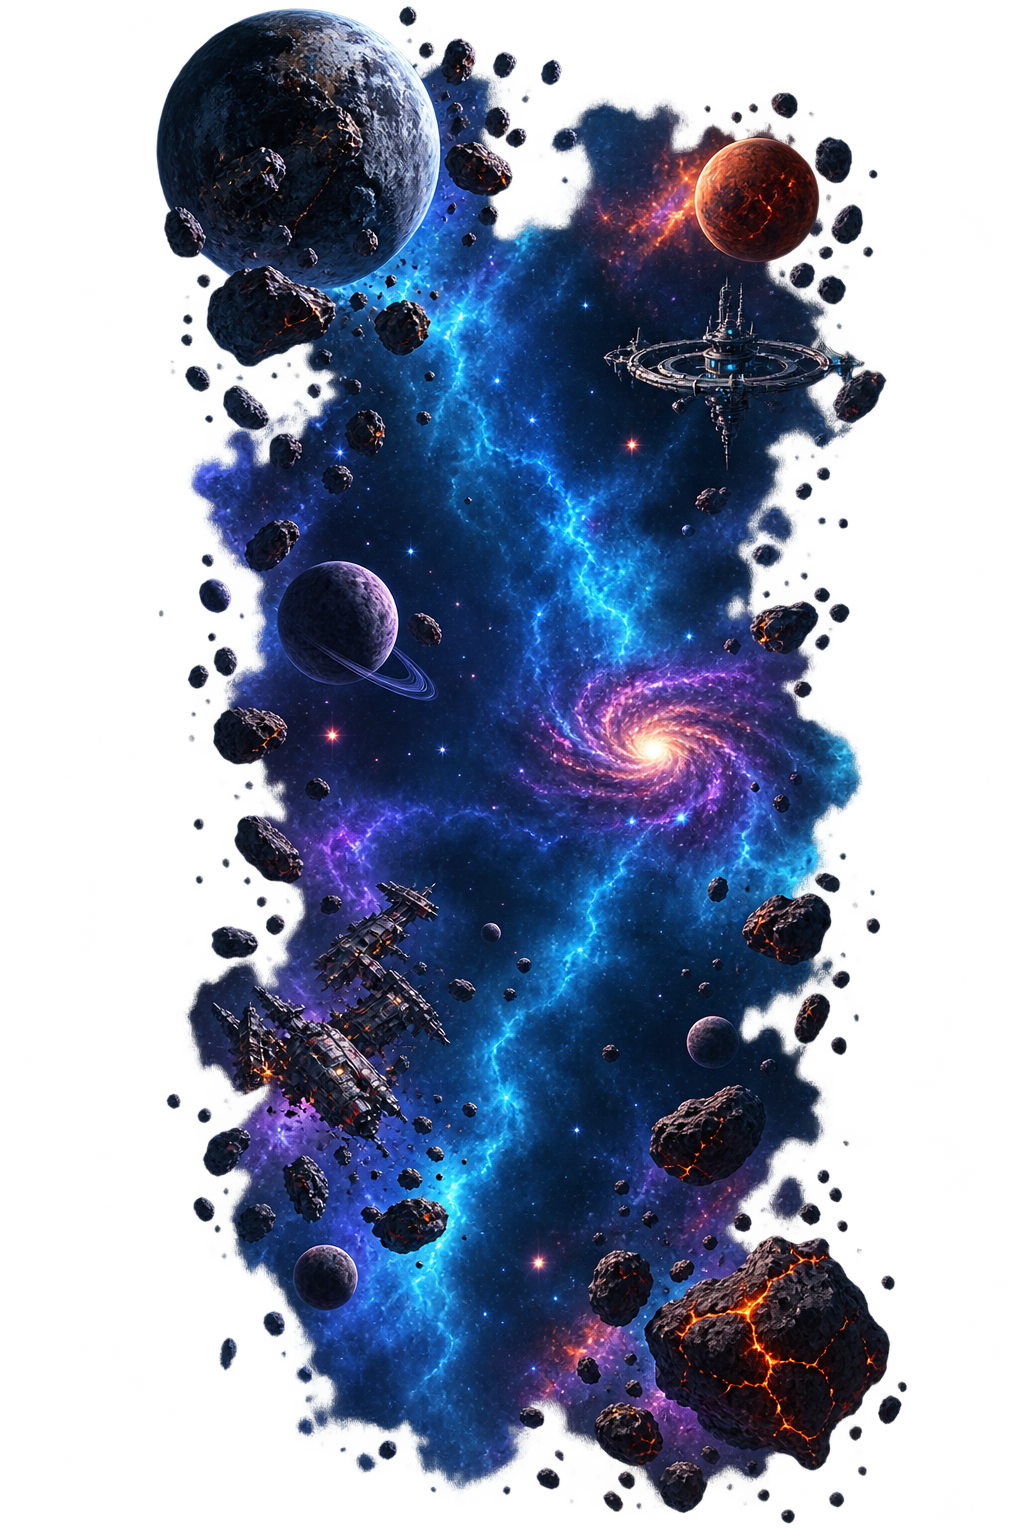
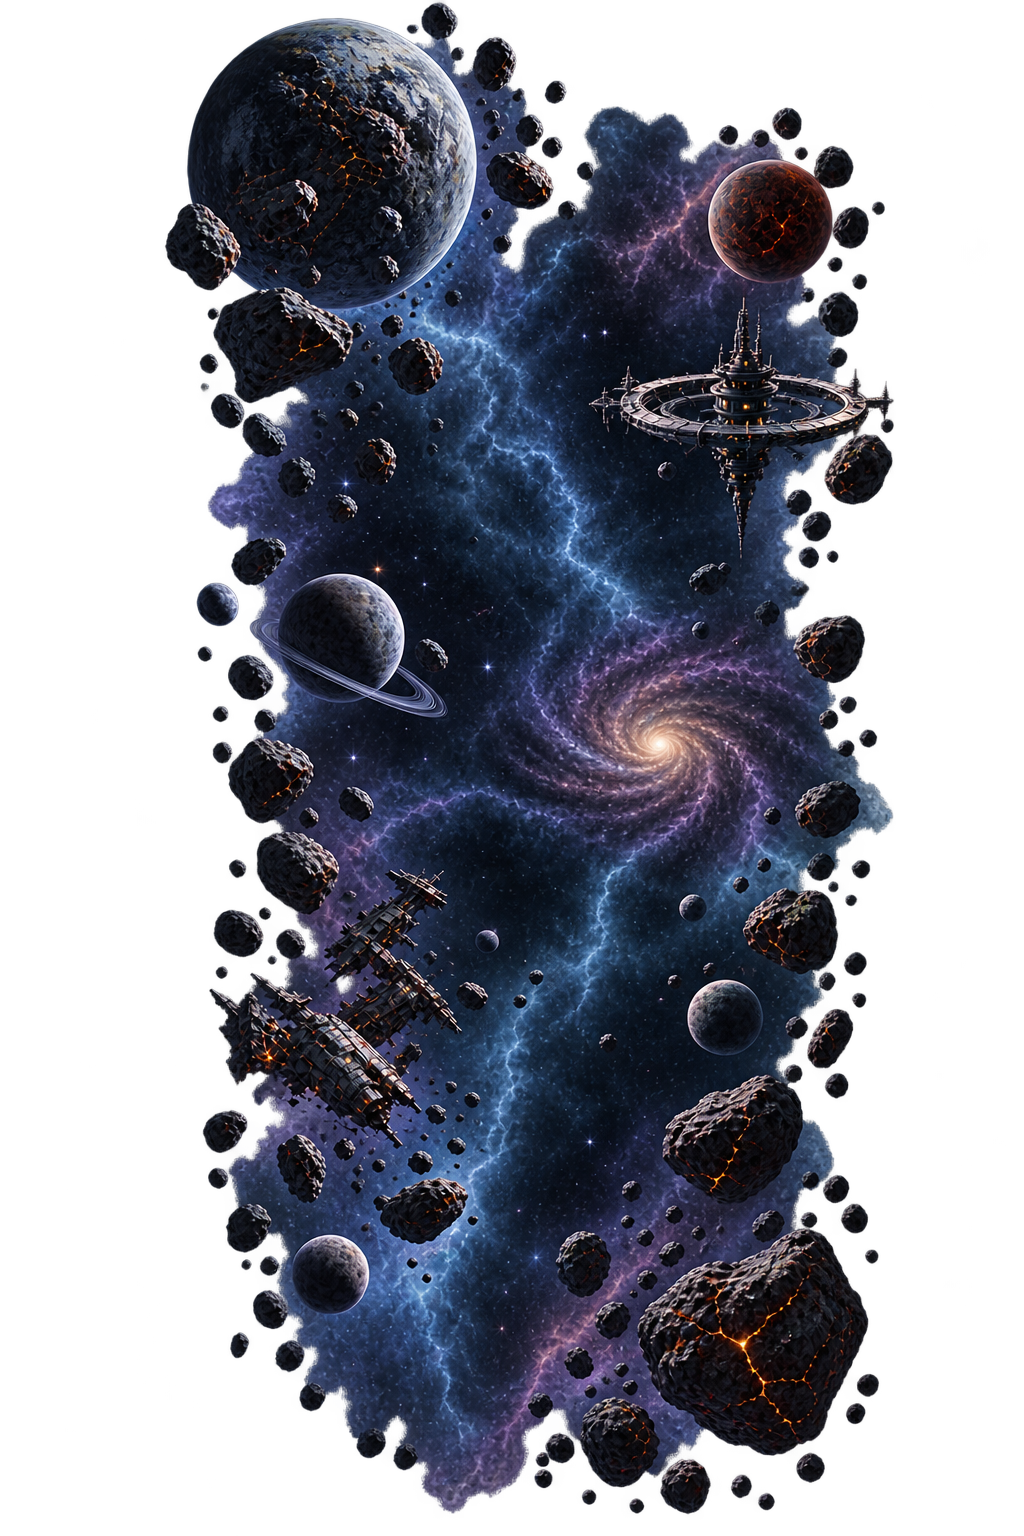
Add mobile resolution option, rescale environment art, resize backgrounds
- Options: RESOLUTION row toggles desktop (640x720) / mobile (360x800),
  persisted via localStorage, applied on reload (canvas aspect ratio wired
  through CSS vars in index.html/main.js).
- Loosen Options menu spacing/fonts specifically for the mobile width so
  rows don't crowd the label against the left arrow.
- Menu: mission-select grid drops to 2 columns under mobile width.
- Rename/rescale environment objects (Blackhole, P-1/2/3) to smaller size
  tiers; regenerate manifest.json.
- Update mission background art.

diff --git a/src/scenes/OptionsScene.js b/src/scenes/OptionsScene.js
@@ -2,6 +2,7 @@ import {
   GAME_WIDTH, GAME_HEIGHT, SHIPS_FALLBACK,
   DIFFICULTY, DIFFICULTY_ORDER,
   INPUT_TYPES,
+  RESOLUTION_PRESETS, RESOLUTION_MODES, CURRENT_RESOLUTION_MODE, setResolutionMode,
 } from '../config.js';
 import Starfield from '../systems/Starfield.js';
 import { ACCENT_HEX, TEXT_HEX, drawBeveledPanel, drawCornerBrackets, buildVerticalMenu } from '../systems/UITheme.js';
@@ -25,13 +26,25 @@ const AUTO_FIRE_DESCRIPTIONS = {
 };
 
 const TEXT_DIM = '#5a8a9a';
-const ROW_WIDTH = 560;
-const ROW_HEIGHT = 64;
-const ROW_GAP = 14;
+// MOBILE's GAME_WIDTH (360) is narrower but its GAME_HEIGHT (800) has more
+// vertical room than DESKTOP's 720 -- IS_MOBILE below spends that extra
+// height on looser row spacing/margins instead of reusing DESKTOP's tighter
+// numbers, which read as cramped on the narrow screen (see report: rows
+// packed edge-to-edge with the label crowding the left arrow).
+const IS_MOBILE = GAME_WIDTH < 500;
+// Wider side margin (80 vs 60) so the panel doesn't run edge-to-edge on the
+// narrow MOBILE width, capped at 560 so DESKTOP is unaffected.
+const ROW_WIDTH = Math.min(560, GAME_WIDTH - 80);
+// Trimmed from the original 64/14 so all 5 rows (now including RESOLUTION)
+// plus the ship preview and BACK button still fit inside DESKTOP's tighter
+// GAME_HEIGHT (720); MOBILE gets its own looser numbers instead of reusing
+// these, since 800 has slack to spare.
+const ROW_HEIGHT = IS_MOBILE ? 62 : 56;
+const ROW_GAP = IS_MOBILE ? 16 : 8;
 
-// Flat settings page -- four arrow-cycle rows (DIFFICULTY / GAMEPLAY /
-// PLAYER SHIP / INPUT): each shows "< VALUE >", tap/click an arrow (or Left/
-// Right when a row has focus) to step through that category's values in
+// Flat settings page -- arrow-cycle rows (DIFFICULTY / GAMEPLAY / PLAYER
+// SHIP / INPUT / RESOLUTION): each shows "< VALUE >", tap/click an arrow (or
+// Left/Right when a row has focus) to step through that category's values in
 // place, wrapping at the ends. A short description sits under each row's
 // value; Player Ship instead gets a persistent big preview of the selected
 // ship below the whole stack.
@@ -107,6 +120,22 @@ export default class OptionsScene extends Phaser.Scene {
         selectedIndex: INPUT_TYPES.indexOf(prefs.inputType),
         onPick: (i) => setPref(this, 'inputType', INPUT_TYPES[i]),
       },
+      {
+        key: 'resolution',
+        label: 'RESOLUTION',
+        valueLabel: RESOLUTION_PRESETS[CURRENT_RESOLUTION_MODE].label,
+        description: 'Switches the game between desktop and mobile (taller, narrower) view. Reloads the page to apply.',
+        length: RESOLUTION_MODES.length,
+        selectedIndex: RESOLUTION_MODES.indexOf(CURRENT_RESOLUTION_MODE),
+        // Resolution is a load-time constant (baked into main.js's Phaser
+        // config), unlike every other row here -- can't just re-render this
+        // scene, the whole page has to reload to rebuild the game at the new
+        // size.
+        onPick: (i) => {
+          setResolutionMode(RESOLUTION_MODES[i]);
+          window.location.reload();
+        },
+      },
     ];
   }
 
@@ -135,33 +164,47 @@ export default class OptionsScene extends Phaser.Scene {
     // Value sits in a fixed-width centered slot flanked by the two arrows --
     // its position never depends on the value string's own width, so a long
     // value (KEYBOARD, AUTO FIRE: ON) can't grow into and overlap an arrow.
+    // Gap between the two arrows shrinks on the narrower MOBILE preset (see
+    // ROW_WIDTH above) so it still leaves the label room on the row's left --
+    // a fixed 190px (fine at the old always-640-wide layout) left almost no
+    // room for the label at MOBILE's width and the two visually collided.
     const rowRight = x + ROW_WIDTH / 2;
+    const arrowGap = IS_MOBILE ? 130 : Math.min(190, ROW_WIDTH - 120);
     const rightArrowX = rowRight - 24;
-    const leftArrowX = rowRight - 24 - 190;
+    const leftArrowX = rowRight - 24 - arrowGap;
     const valueX = (leftArrowX + rightArrowX) / 2;
+    const labelFontSize = IS_MOBILE ? '13px' : '15px';
+    const valueFontSize = IS_MOBILE ? '13px' : '15px';
+    const arrowFontSize = IS_MOBILE ? '15px' : '16px';
 
     const panel = drawBeveledPanel(this, x - ROW_WIDTH / 2, y - ROW_HEIGHT / 2, ROW_WIDTH, ROW_HEIGHT, { chamfer: 8 });
     const label = this.add.text(x - ROW_WIDTH / 2 + 20, y - 16, cat.label, {
-      fontFamily: 'Arial Black, Arial', fontSize: '15px', color: TEXT_HEX,
+      fontFamily: 'Arial Black, Arial', fontSize: labelFontSize, color: TEXT_HEX,
     }).setOrigin(0, 0.5);
 
     const value = this.add.text(valueX, y - 16, cat.valueLabel, {
-      fontFamily: 'Arial', fontSize: '15px', color: TEXT_DIM,
+      fontFamily: 'Arial', fontSize: valueFontSize, color: TEXT_DIM,
     }).setOrigin(0.5);
 
     const leftArrow = this.add.text(leftArrowX, y - 16, '◀', {
-      fontFamily: 'Arial Black, Arial', fontSize: '16px', color: ACCENT_HEX,
-    }).setOrigin(0.5).setInteractive({ useHandCursor: true });
+      fontFamily: 'Arial Black, Arial', fontSize: arrowFontSize, color: ACCENT_HEX,
+    }).setOrigin(0.5);
     const rightArrow = this.add.text(rightArrowX, y - 16, '▶', {
-      fontFamily: 'Arial Black, Arial', fontSize: '16px', color: ACCENT_HEX,
-    }).setOrigin(0.5).setInteractive({ useHandCursor: true });
-    leftArrow.on('pointerdown', () => this.cycle(cat, -1));
-    rightArrow.on('pointerdown', () => this.cycle(cat, 1));
+      fontFamily: 'Arial Black, Arial', fontSize: arrowFontSize, color: ACCENT_HEX,
+    }).setOrigin(0.5);
 
-    const objs = [panel, label, value, leftArrow, rightArrow];
+    const hitSize = 44;
+    const leftHit = this.add.rectangle(leftArrowX, y - 16, hitSize, hitSize, 0xffffff, 0.001)
+      .setInteractive({ useHandCursor: true });
+    const rightHit = this.add.rectangle(rightArrowX, y - 16, hitSize, hitSize, 0xffffff, 0.001)
+      .setInteractive({ useHandCursor: true });
+    leftHit.on('pointerdown', () => this.cycle(cat, -1));
+    rightHit.on('pointerdown', () => this.cycle(cat, 1));
+
+    const objs = [panel, label, value, leftArrow, rightArrow, leftHit, rightHit];
     if (cat.description) {
       const desc = this.add.text(x, y + 14, cat.description, {
-        fontFamily: 'Arial', fontSize: '11px', color: '#7aa8b8', align: 'center', wordWrap: { width: ROW_WIDTH - 40 },
+        fontFamily: 'Arial', fontSize: IS_MOBILE ? '10px' : '11px', color: '#7aa8b8', align: 'center', wordWrap: { width: ROW_WIDTH - 40 },
       }).setOrigin(0.5);
       objs.push(desc);
     }

diff --git a/src/config.js b/src/config.js
@@ -1,7 +1,42 @@
 // Central tuning values for Mission 1.
 
-export const GAME_WIDTH = 640;
-export const GAME_HEIGHT = 720;
+// Resolution presets for desktop and mobile views. GAME_WIDTH/GAME_HEIGHT
+// below (the single source of truth for world bounds/spawn math/HUD layout
+// everywhere else) are derived from whichever mode is stored -- switching
+// modes (see OptionsScene's RESOLUTION row) writes the new mode then reloads
+// the page, since these are load-time constants baked into main.js's Phaser
+// config and can't be changed on a live game instance.
+export const RESOLUTION_PRESETS = {
+  desktop: { width: 640, height: 720, label: 'DESKTOP (640x720)' },
+  mobile: { width: 360, height: 800, label: 'MOBILE (360x800)' },
+};
+export const RESOLUTION_MODES = Object.keys(RESOLUTION_PRESETS);
+export const DEFAULT_RESOLUTION_MODE = 'desktop';
+
+const RESOLUTION_STORAGE_KEY = 'spaceShooter.resolutionMode';
+
+function readResolutionMode() {
+  try {
+    const stored = localStorage.getItem(RESOLUTION_STORAGE_KEY);
+    return RESOLUTION_PRESETS[stored] ? stored : DEFAULT_RESOLUTION_MODE;
+  } catch {
+    return DEFAULT_RESOLUTION_MODE;
+  }
+}
+
+export function setResolutionMode(mode) {
+  if (!RESOLUTION_PRESETS[mode]) return;
+  try {
+    localStorage.setItem(RESOLUTION_STORAGE_KEY, mode);
+  } catch {
+    // Storage unavailable (private mode, etc) -- mode won't persist across
+    // reload, but the immediate reload still picks up DEFAULT_RESOLUTION_MODE.
+  }
+}
+
+export const CURRENT_RESOLUTION_MODE = readResolutionMode();
+export const GAME_WIDTH = RESOLUTION_PRESETS[CURRENT_RESOLUTION_MODE].width;
+export const GAME_HEIGHT = RESOLUTION_PRESETS[CURRENT_RESOLUTION_MODE].height;
 
 // Enemy ship art root (GameAssets/EnemyShip) is organized as:
 //   {EnemyPowerUpDrop|RandomShips}/{Mission N|Default}/...

diff --git a/index.html b/index.html
@@ -31,11 +31,16 @@
       inset: 0;
     }
     /* Canvas fills 80% of the browser's height, width locked to the game's
-       640:720 aspect ratio so Phaser's FIT scale mode (see main.js) scales
-       it up cleanly without letterboxing distortion. */
+       aspect ratio (--game-w/--game-h, set from GAME_WIDTH/GAME_HEIGHT by
+       main.js before the Phaser game boots) so Phaser's FIT scale mode (see
+       main.js) scales it up cleanly without letterboxing distortion. */
+    :root {
+      --game-w: 640;
+      --game-h: 720;
+    }
     #game-container canvas {
-      height: min(100vh, calc(100vw * 720 / 640)) !important;
-      width: calc(min(100vh, calc(100vw * 720 / 640)) * 640 / 720) !important;
+      height: min(100vh, calc(100vw * var(--game-h) / var(--game-w))) !important;
+      width: calc(min(100vh, calc(100vw * var(--game-h) / var(--game-w))) * var(--game-w) / var(--game-h)) !important;
     }
     canvas {
       /* Ship/enemy/boss art is photoreal, not pixel art -- smooth (default)

diff --git a/src/scenes/MenuScene.js b/src/scenes/MenuScene.js
@@ -189,7 +189,10 @@ export default class MenuScene extends Phaser.Scene {
     const boxW = 120;
     const boxH = 70;
     const gap = 16;
-    const columns = Math.min(MISSION_NUMBERS.length, 3);
+    // 3 columns of 120px boxes overflows the narrower MOBILE resolution
+    // preset's GAME_WIDTH (see config.js) -- drop to 2 columns below that.
+    const maxColumns = GAME_WIDTH < 500 ? 2 : 3;
+    const columns = Math.min(MISSION_NUMBERS.length, maxColumns);
     const rows = Math.ceil(MISSION_NUMBERS.length / columns);
     const totalW = columns * boxW + (columns - 1) * gap;
     const startX = GAME_WIDTH / 2 - totalW / 2 + boxW / 2;

diff --git a/src/main.js b/src/main.js
@@ -29,6 +29,12 @@ import GameOverScene from './scenes/GameOverScene.js';
 // actual game size would desync the camera/world from that logic.)
 const RENDER_DPR = window.devicePixelRatio || 1;
 
+// index.html's #game-container canvas CSS reads these to lock the canvas's
+// CSS aspect ratio to whichever RESOLUTION_PRESETS mode is active (see
+// config.js) -- must be set before the canvas element is created below.
+document.documentElement.style.setProperty('--game-w', GAME_WIDTH);
+document.documentElement.style.setProperty('--game-h', GAME_HEIGHT);
+
 const config = {
   type: Phaser.AUTO,
   parent: 'game-container',
